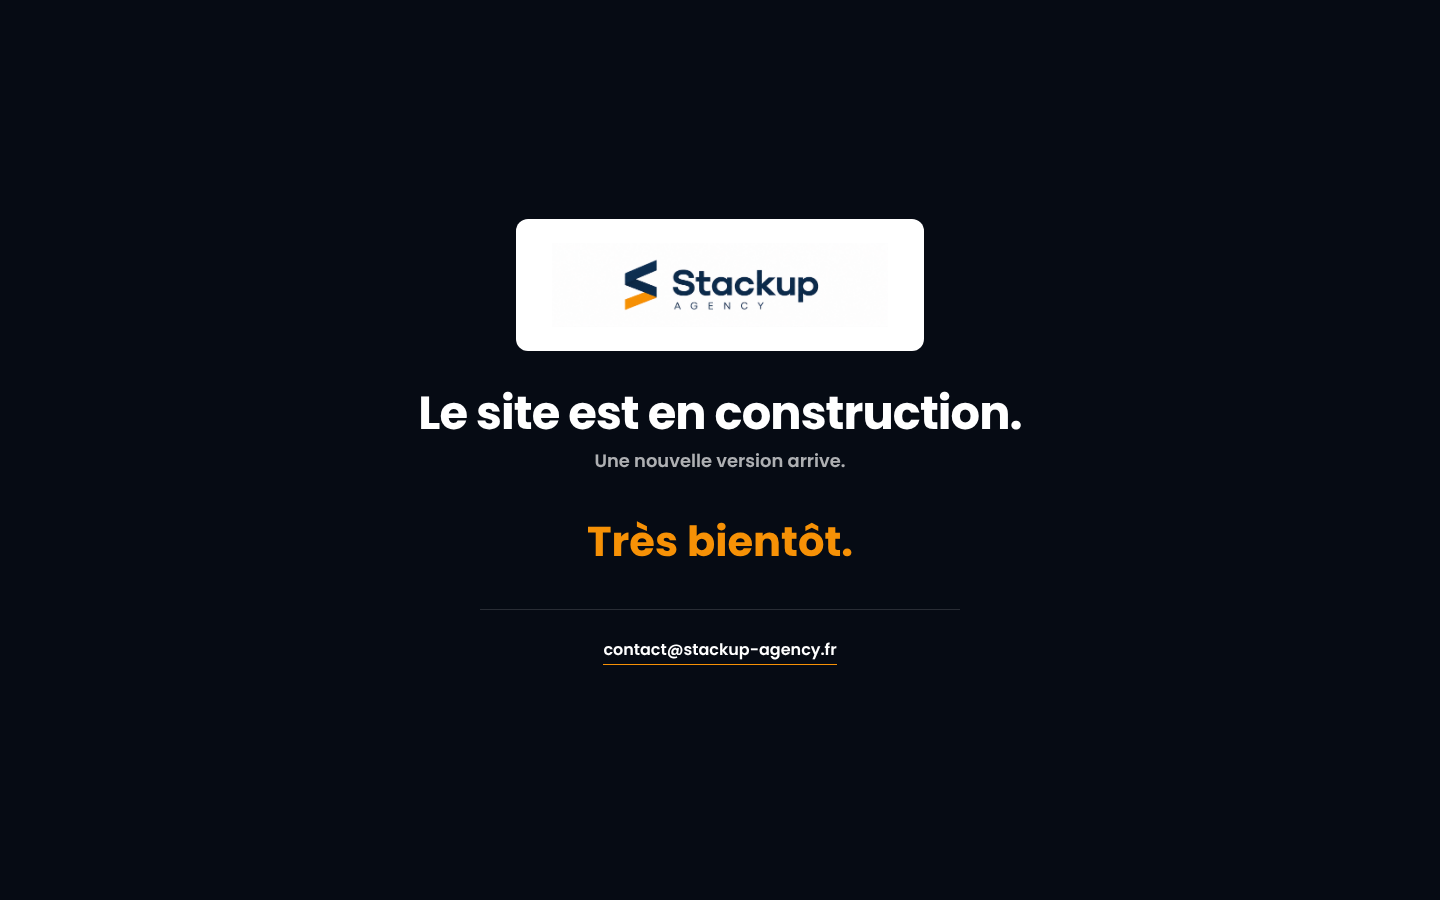
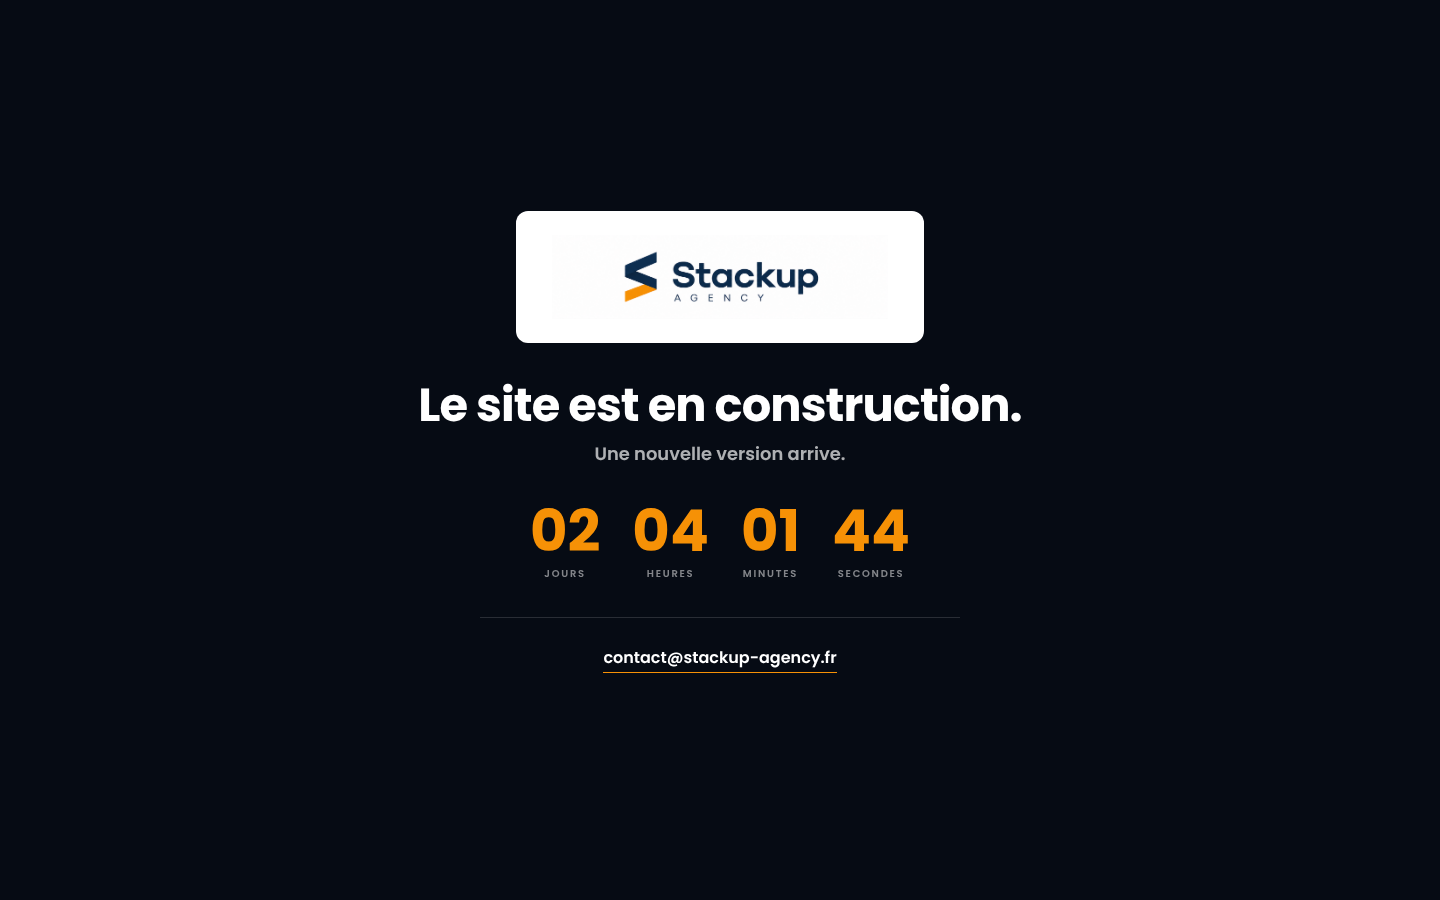
Le compte à rebours se termine samedi 17 octobre à 13 h
LA DATE

`2026-10-17T13:00:00+02:00`, et non l'équivalent en UTC (`11:00:00Z`) : les
deux désignent le même instant, mais celui-ci se relit. L'intention était
« samedi à 13 h », et c'est « 13:00 » qui est écrit — personne n'a à refaire
la soustraction pour vérifier.

Le décalage est bien `+02:00` : la France ne repasse à UTC+01:00 que le
25 octobre. Une date postérieure devra porter `+01:00`, sinon elle tombe une
heure à côté de ce qu'on croyait fixer — c'est noté dans le commentaire, à
l'endroit où quelqu'un changera la date.

LE `RETRY-AFTER` NE PEUT PLUS DIVERGER

Il était écrit en dur à 172800 (48 h), avec un commentaire affirmant « comme
le compte à rebours ». Changer la date rendait cette affirmation fausse sans
que rien ne le signale. Il se déduit maintenant de `MAINTENANCE_FIN` : deux
valeurs qui doivent rester égales ne se recopient pas, l'une se calcule
depuis l'autre.

Deux garde-fous l'encadrent. Un plancher d'une heure, pour qu'un robot qui
passe APRÈS l'échéance — date dépassée mais site encore en maintenance — ne
reçoive ni zéro ni une valeur négative. Un plafond d'une semaine, parce
qu'une date lointaine inviterait les robots à ne plus revenir pendant des
mois.

VÉRIFICATIONS

  Retry-After mesuré : 187 320 s, soit 2 j 4 h 02 — exactement l'écart entre
  le jeudi 15 octobre 8 h 58 et le samedi 17 octobre 13 h, heure de Paris.
  Compte à rebours lu dans la page : 02 jours 04 heures 01 minutes, aux deux
  largeurs, servi en 503.
  build vert · lint 0
[…]

diff --git a/src/middleware.ts b/src/middleware.ts
@@ -19,9 +19,12 @@
  * unique n'est pas mieux. Le 503 — service temporairement indisponible —
  * est le seul statut qui dise « reviens plus tard, ne touche à rien ».
  *
- * `Retry-After: 172800` (48 h) complète le message : il indique quand
- * repasser. C'est aussi la durée du compte à rebours, et les deux doivent
- * rester cohérents.
+ * `Retry-After` complète le message : il indique quand repasser. Il est
+ * CALCULÉ depuis `MAINTENANCE_FIN`, et non écrit en dur — il l'était, à
+ * 48 h, avec un commentaire affirmant « comme le compte à rebours ». La
+ * première fois que la date a changé, l'affirmation est devenue fausse sans
+ * que rien ne le signale. Deux valeurs qui doivent rester égales ne se
+ * recopient pas : l'une se déduit de l'autre.
  *
  * OÙ CE FICHIER DOIT VIVRE. Dans `src/`, et non à la racine du dépôt : ce
  * projet range son code applicatif sous `src/`, et Next cherche alors le
@@ -38,10 +41,22 @@
 
 import { NextResponse } from 'next/server'
 import { pageMaintenance } from '@/lib/maintenance'
-import { MAINTENANCE_ACTIVE } from '@/config/site'
+import { MAINTENANCE_ACTIVE, MAINTENANCE_FIN } from '@/config/site'
 
-/** Durée annoncée au robot, en secondes. 48 h, comme le compte à rebours. */
-const RETRY_APRES = 172800
+/**
+ * Secondes restantes avant la date de fin, pour l'en-tête `Retry-After`.
+ *
+ * Deux garde-fous : un plancher d'une heure, pour qu'un robot qui passe
+ * APRÈS l'échéance — la date dépassée mais le site encore en maintenance —
+ * ne reçoive ni zéro ni une valeur négative ; et un plafond d'une semaine,
+ * parce qu'une date lointaine inviterait les robots à ne plus revenir
+ * pendant des mois.
+ */
+function retryApres(): number {
+  const reste = Math.ceil((new Date(MAINTENANCE_FIN).getTime() - Date.now()) / 1000)
+  if (!Number.isFinite(reste)) return 3600
+  return Math.min(604800, Math.max(3600, reste))
+}
 
 export function middleware() {
   /* L'ordre compte : la variable d'environnement tranche quand elle existe,
@@ -57,7 +72,7 @@ export function middleware() {
     status: 503,
     headers: {
       'Content-Type': 'text/html; charset=utf-8',
-      'Retry-After': String(RETRY_APRES),
+      'Retry-After': String(retryApres()),
       /* Aucune mise en cache : sans ça, un CDN garderait la page de
          maintenance après la remise en service, et des visiteurs la
          verraient encore alors que le site est revenu. */

diff --git a/src/config/site.ts b/src/config/site.ts
@@ -226,14 +226,24 @@ export function APartirDe(montant: number, suffixe = '€'): string {
  * compte à rebours n'arriverait jamais à zéro. Le visiteur qui revient une
  * heure plus tard doit voir une heure de moins.
  *
- * Format ISO 8601 avec le fuseau explicite (`Z` = UTC) : sans lui, un
- * navigateur interprète la chaîne dans SON fuseau, et deux visiteurs de
- * continents différents voient deux comptes à rebours différents.
+ * LE DÉCALAGE EST ÉCRIT, ET IL EST ÉCRIT EN HEURE DE PARIS.
  *
- * Posée à 48 h de sa rédaction, le 13 octobre 2026 à 15 h 15 UTC.
+ * `+02:00` plutôt que l'équivalent en UTC (`11:00:00Z`) : les deux désignent
+ * le même instant, mais celui-ci se relit. L'intention était « samedi à
+ * 13 h », et c'est « 13:00 » qui est écrit — personne n'a à refaire la
+ * soustraction pour vérifier.
+ *
+ * Attention au 25 octobre 2026 : la France repasse à UTC+01:00 ce jour-là.
+ * Une date postérieure doit donc porter `+01:00`, sinon elle tombe une heure
+ * à côté de ce qu'on croyait fixer.
+ *
+ * Sans aucun décalage, un navigateur interpréterait la chaîne dans SON
+ * fuseau, et deux visiteurs de continents différents verraient deux comptes
+ * à rebours différents.
+ *
  * Pour la changer : remplacez simplement la chaîne ci-dessous.
  */
-export const MAINTENANCE_FIN = '2026-10-15T15:15:21Z'
+export const MAINTENANCE_FIN = '2026-10-17T13:00:00+02:00'
 
 /**
  * LE MODE MAINTENANCE EST-IL ACTIF ?
